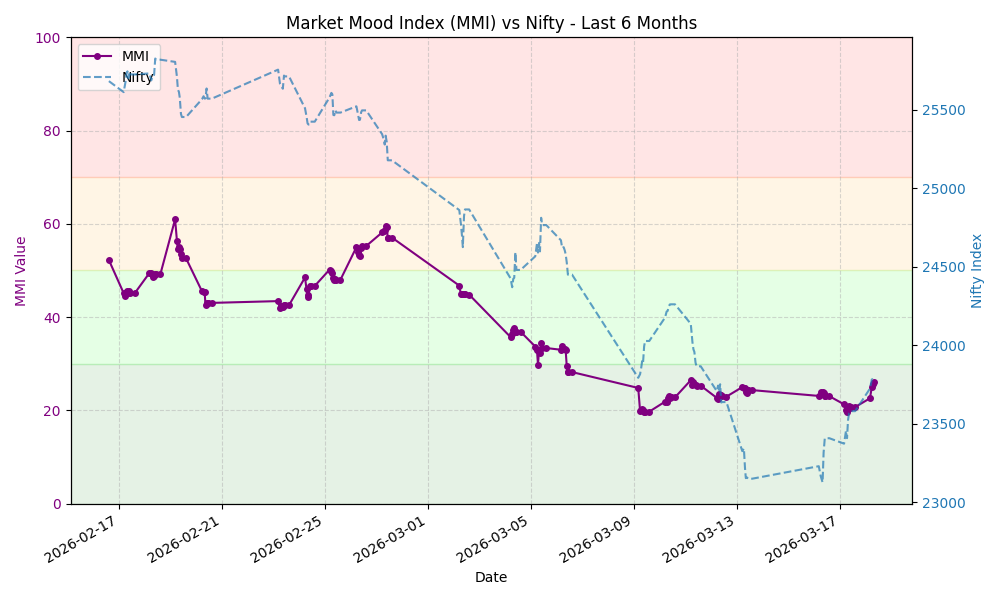
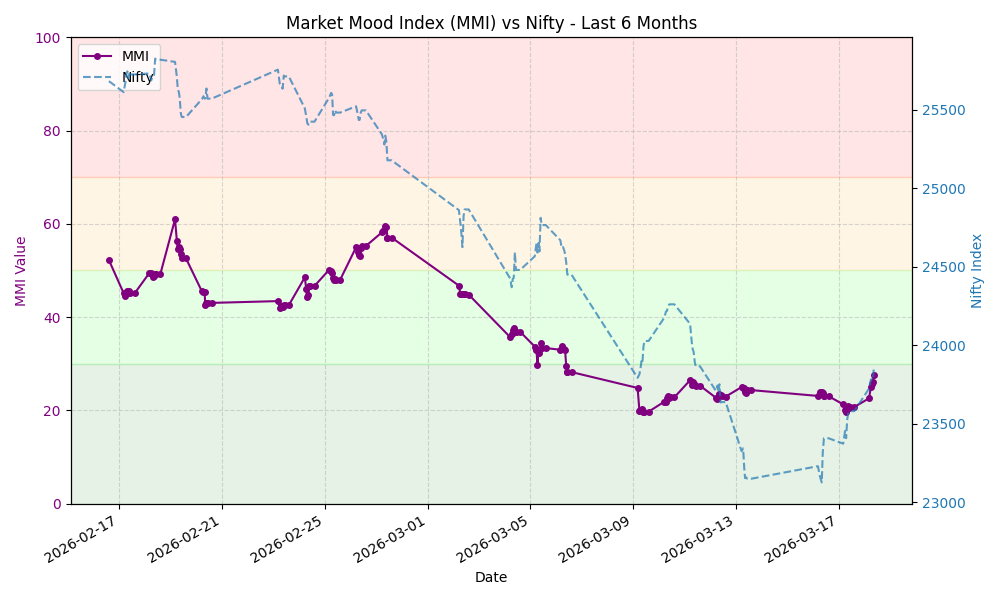
Update MMI data and chart

diff --git a/README.md b/README.md
@@ -7,8 +7,8 @@ This repository automatically fetches the MMI value, stores the history, and gen
 
 ## Latest MMI Value
 
-**26.12** - **Extreme Fear**
-<small>Last Updated: 2026-03-18 07:42 UTC</small>
+**27.61** - **Extreme Fear**
+<small>Last Updated: 2026-03-18 08:33 UTC</small>
 
 ## MMI Trend (Last 30 Days)
 
